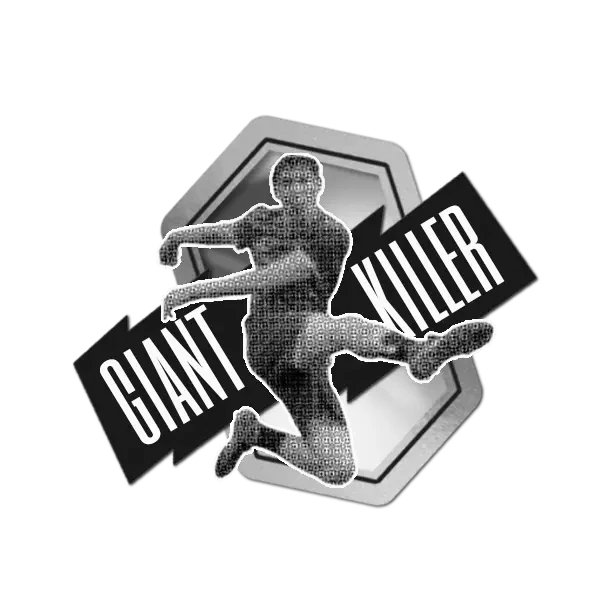
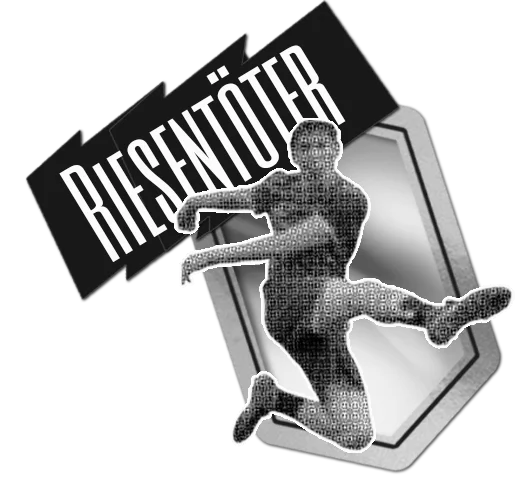
Added New images

diff --git a/style.css b/style.css
@@ -73,49 +73,63 @@ body {
   height: 0;
   cursor: pointer;
 }
+
+
 .menu-btn:nth-child(odd) {
   align-self: flex-start;
 }
+
 .menu-btn:nth-child(even) {
   align-self: flex-end;
 }
+
+
 .menu-btn:nth-child(1) {
   margin-left: -10%;
-  margin-top: -50%;
-}
-.menu-btn:nth-child(2) {
-  margin: -10%;
   margin-top: -40%;
 }
+
+.menu-btn:nth-child(2) {
+  margin: -10%;
+  margin-top: -30%;
+}
+
 .menu-btn:nth-child(3) {
   margin: -10%;
   margin-top: -20%;
 }
+
 .menu-btn:nth-child(4) {
   margin-right: -10%;
   margin-top: -10%;
 }
+
 .menu-btn:nth-child(5) {
   margin-left: -10%;
-  margin-top: -40%;
-}
-.menu-btn:nth-child(6) {
-  margin-left: 0%;
   margin-top: -30%;
 }
+
+.menu-btn:nth-child(6) {
+  margin-left: 0%;
+  margin-top: -20%;
+}
+
 .menu-btn:nth-child(7) {
   margin-left: -5%;
   width: 70%;
   margin-top: 210%;
 }
+
 .menu-btn:nth-child(8) {
   margin-left: 15%;
   width: 50%;
 }
+
 .menu-btn:nth-child(7) {
   width: 70%;
-  margin-top: 10%;
+  margin-top: 0%;
 }
+
 .menu-btn:nth-child(8) {
   width: 50%;
   margin-top: -60%;
@@ -125,6 +139,7 @@ body {
   cursor: default;
   opacity: 1;
 }
+
 .menu-btn:nth-child(9) {
   pointer-events: none;
   cursor: default;

diff --git a/style2.css b/style2.css
@@ -119,12 +119,12 @@ body {
 
 .menu-btn:nth-child(1) {
   margin-left: -10%;
-  margin-top: -50%;
+  margin-top: -40%;
 }
 
 .menu-btn:nth-child(2) {
   margin: -10%;
-  margin-top: -40%;
+  margin-top: -30%;
 }
 
 .menu-btn:nth-child(3) {
@@ -139,12 +139,12 @@ body {
 
 .menu-btn:nth-child(5) {
   margin-left: -10%;
-  margin-top: -40%;
+  margin-top: -30%;
 }
 
 .menu-btn:nth-child(6) {
   margin-left: 0%;
-  margin-top: -30%;
+  margin-top: -20%;
 }
 
 .menu-btn:nth-child(7) {
@@ -160,7 +160,7 @@ body {
 
 .menu-btn:nth-child(7) {
   width: 70%;
-  margin-top: 10%;
+  margin-top: 0%;
 }
 
 .menu-btn:nth-child(8) {

diff --git a/end.html b/end.html
@@ -456,7 +456,7 @@ text-align: center;
 <div class="page-container">
   <section class="section section1">
 
-    <img src="images/Card.webp" class="page-image">
+    <img src="images/Card2.webp" class="page-image">
     
     </section>
        <!-- SECTION 4 -->
